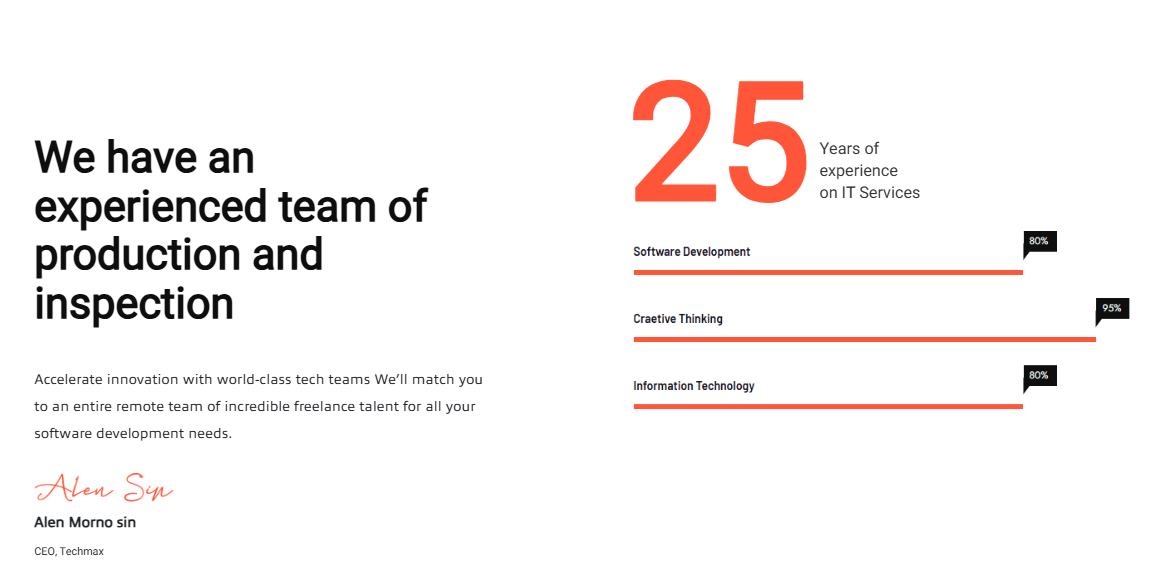
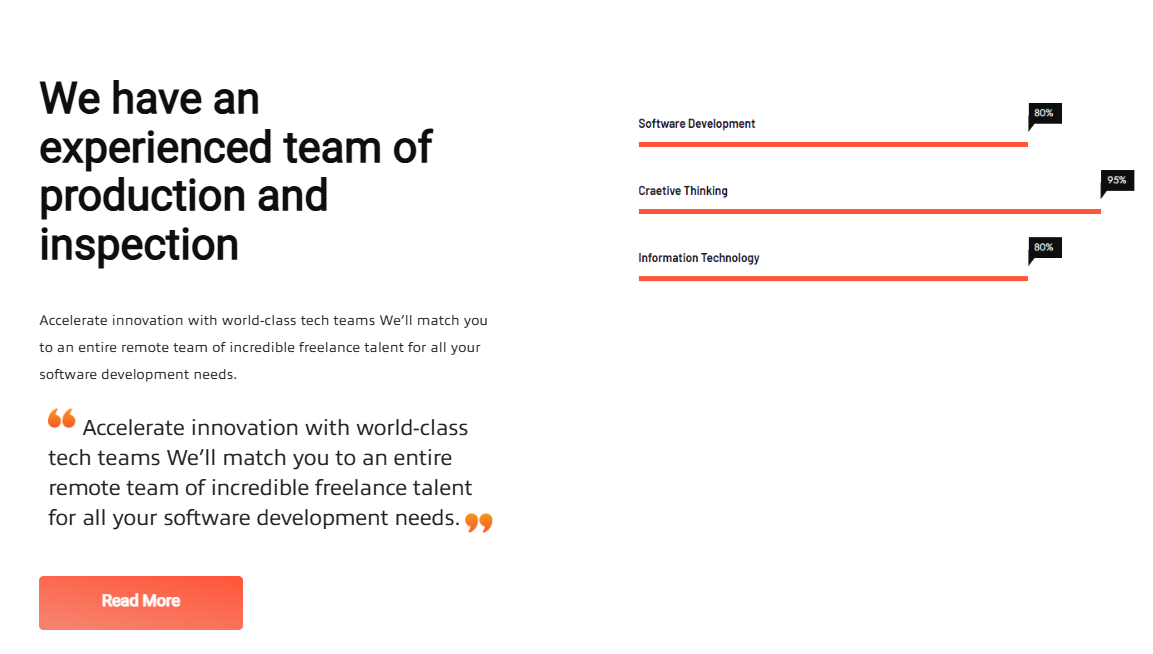
26-01-25

diff --git a/resources/views/metronic/pages/solution/template_partial/template_four_content.blade.php b/resources/views/metronic/pages/solution/template_partial/template_four_content.blade.php
@@ -29,7 +29,7 @@
                 </a>
             </li>
             <li class="nav-item mb-3">
-                <a class="nav-link btn btn-flex btn-active-danger w-100" data-bs-toggle="tab"
+                <a class="nav-link btn btn-flex btn-active-secondary w-100" data-bs-toggle="tab"
                     href="#template_one_section_four">
                     <div class="d-flex flex-column align-items-start">
                         <img src="{{ asset('images/solution/template_four/count.png') }}" alt="" width="200px">
@@ -232,22 +232,43 @@
             </div>
 
             <div class="tab-pane fade" id="template_one_section_three" role="tabpanel">
-                <div class="col-lg-12 mb-7">
-                    <x-metronic.label class="form-label required">Title</x-metronic.label>
-                    <x-metronic.input type="text" name="row_five_title" class="mb-2 form-control"
-                        placeholder="Title" :value="old('row_five_title', $solution->row_five_title)">
-                    </x-metronic.input>
-                </div>
-                <div class="col-lg-12 mb-7">
-                    <x-metronic.label class="form-label required">Description</x-metronic.label>
-                    <textarea name="row_five_description" rows="8" class="mb-2 form-control" placeholder="Description">{{ old('row_five_description', $solution->row_five_description) }}
-                    </textarea>
-                </div>
-                <div class="col-lg-12 mb-7">
-                    <x-metronic.label class="form-label required">Quote</x-metronic.label>
-                    <x-metronic.input type="text" name="row_five_header" class="mb-2 form-control"
-                        placeholder="Title" :value="old('row_five_header', $solution->row_five_header)">
-                    </x-metronic.input>
+                <div class="row">
+                    <div class="col-lg-12 mb-7">
+                        <x-metronic.label class="form-label required">Title</x-metronic.label>
+                        <x-metronic.input type="text" name="row_five_title" class="mb-2 form-control"
+                            placeholder="Title" :value="old('row_five_title', $solution->row_five_title)">
+                        </x-metronic.input>
+                    </div>
+                    <div class="col-lg-12 mb-7">
+                        <x-metronic.label class="form-label required">Description</x-metronic.label>
+                        <textarea name="row_five_description" rows="3" class="mb-2 form-control" placeholder="Description">{{ old('row_five_description', $solution->row_five_description) }}
+                        </textarea>
+                    </div>
+                    <div class="col-lg-12 mb-7">
+                        <x-metronic.label class="form-label required">Quote</x-metronic.label>
+                        <textarea name="row_five_header" rows="3" class="mb-2 form-control" placeholder="Quote">{{ old('row_five_header', $solution->row_five_header) }}
+                        </textarea>
+                    </div>
+                    <div class="col-lg-4 mb-7">
+                        <x-metronic.label class="form-label">Image</x-metronic.label>
+                        <x-metronic.file-input id="row_five_image" name="row_five_image"
+                            :source="asset('storage/' . $solution->row_five_image)" :value="old('row_five_image')"></x-metronic.file-input>
+                    </div>
+
+                    <div class="col-lg-4 mb-7">
+                        <x-metronic.label class="form-label">Link</x-metronic.label>
+                        <x-metronic.input type="text" name="row_five_link" class="mb-2 form-control"
+                            placeholder="Link" :value="old('row_five_link', $solution->row_five_link)">
+                        </x-metronic.input>
+
+                    </div>
+                    <div class="col-lg-4 mb-7">
+                        <x-metronic.label class="form-label">Button Name</x-metronic.label>
+                        <x-metronic.input type="text" name="row_five_btn_name" class="mb-2 form-control"
+                            placeholder="Button Name" :value="old('row_five_btn_name', $solution->row_five_btn_name)">
+                        </x-metronic.input>
+
+                    </div>
                 </div>
             </div>
             <div class="tab-pane fade" id="template_one_section_four" role="tabpanel">

diff --git a/resources/views/frontend/pages/solution/solution_details-4.blade.php b/resources/views/frontend/pages/solution/solution_details-4.blade.php
@@ -200,7 +200,7 @@
                                 </div>
                                 <p>Accelerate innovation with world-class tech teams We’ll match you to an entire remote
                                     team of incredible freelance talent for all your software development needs.</p>
-                                <div style="background-color: #f7e8e5;padding: 10px;border-radius: 5px 30px;">
+                                <div style="padding: 10px;border-radius: 5px 30px;">
                                     <h4>
                                         <img style="margin-top: -2rem;" src="{{ asset('images/solution/template_four/Quote_02.png') }}" alt=""> Accelerate innovation with world-class tech teams We’ll match you to an entire
                                         remote team of incredible freelance talent for all your software development needs.

diff --git a/resources/views/frontend/partials/search.blade.php b/resources/views/frontend/partials/search.blade.php
@@ -223,8 +223,7 @@
                                             <div class="d-flex align-items-center">
                                                 <div class="pe-2">
                                                     <a class="search-btn-price"
-                                                        href="{{ route('product.details', ['id' => $product->slug]) }}">Ask
-                                                        For Price</a>
+                                                        href="{{ route('product.details', ['id' => $product->slug]) }}">Ask For Price</a>
                                                 </div>
                                             </div>
                                             <div class="d-flex border" style="height: 2.6rem;">
